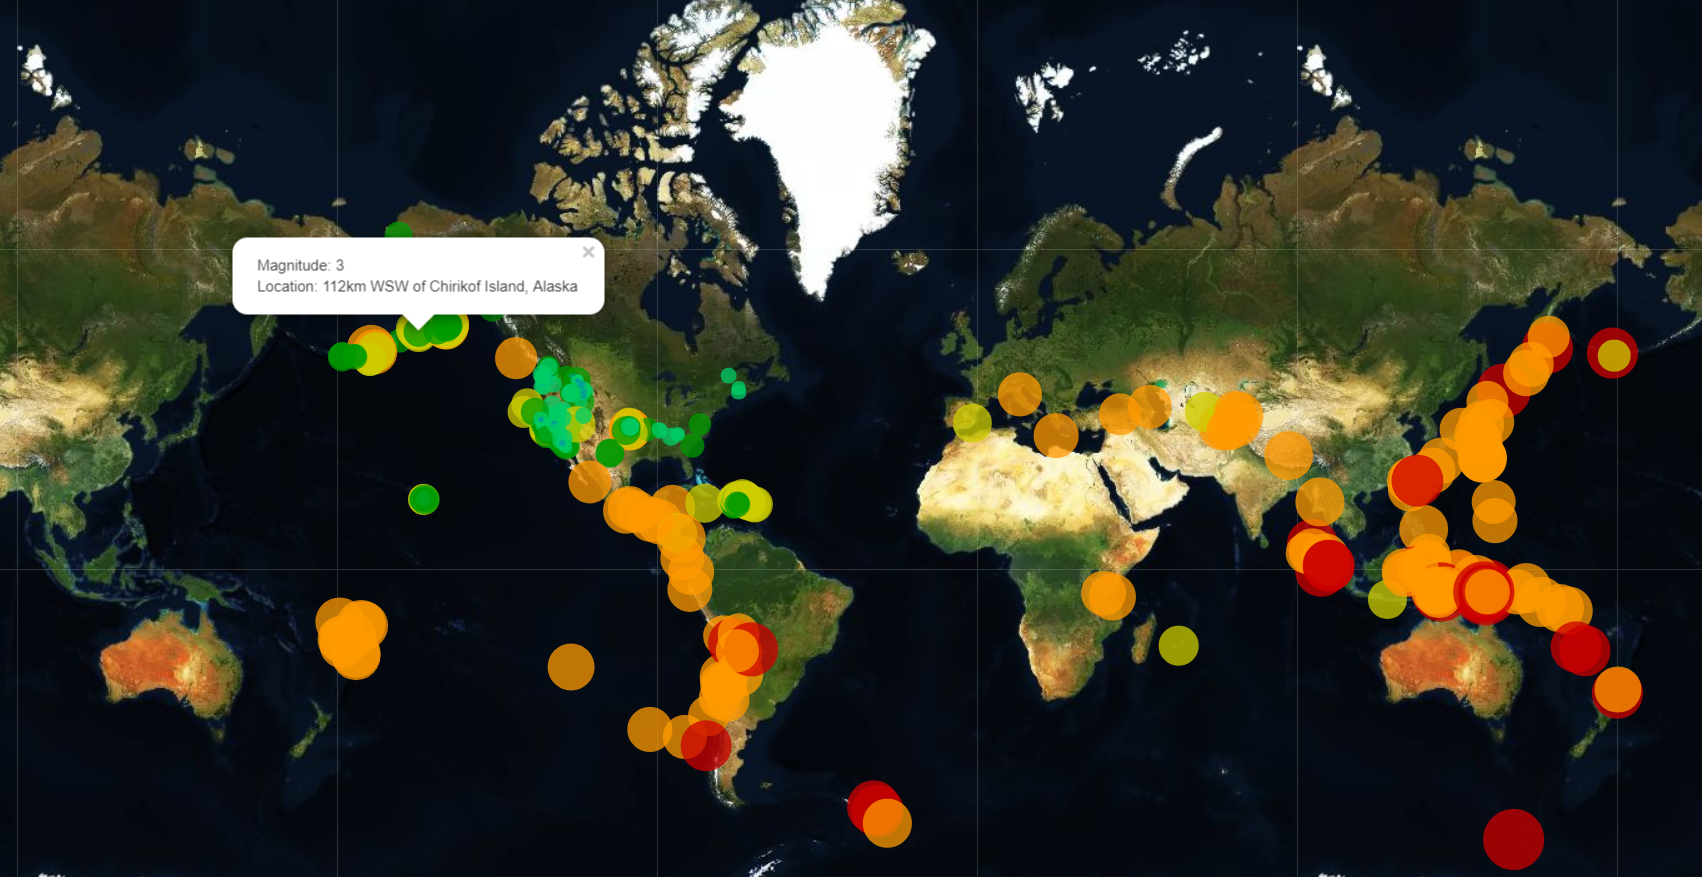
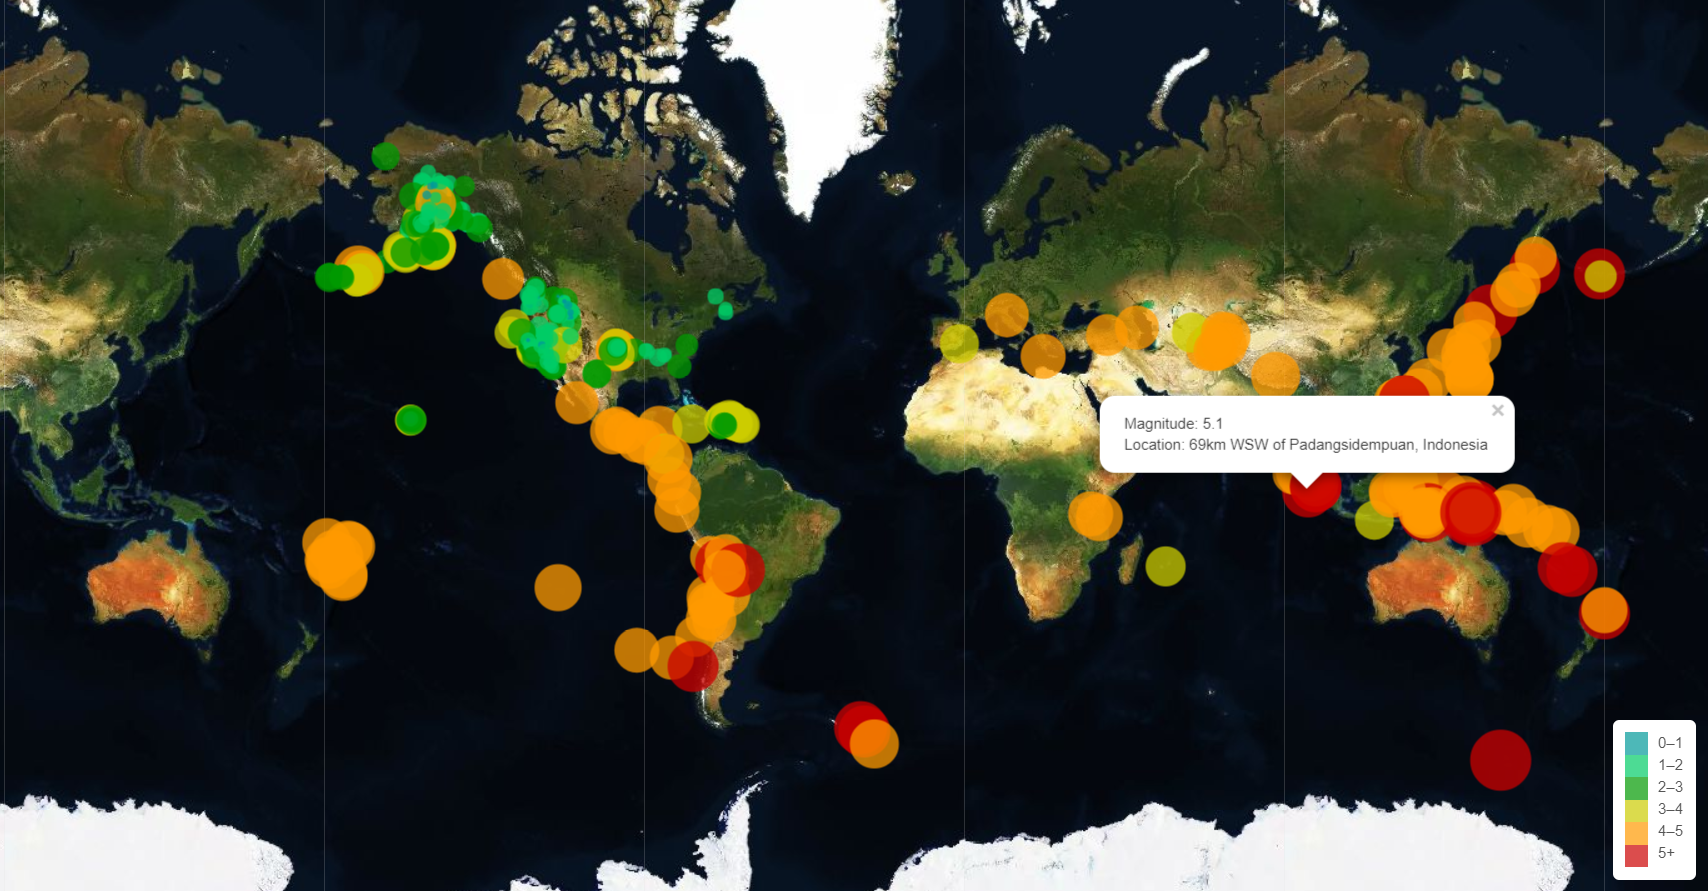
leaflet

diff --git a/logic.js b/logic.js
@@ -86,13 +86,12 @@ d3.json("https://earthquake.usgs.gov/earthquakes/feed/v1.0/summary/all_week.geoj
     }).addTo(myMap);
 
     // Add a legend 
-    var legend = L.control({
-        position: "bottomright"
-    });
+    var legend = L.control({position: "bottomright"});
 
-    // details for legend 
     legend.onAdd = function () {
-        var div = L.DomUtil.create("div", "info legend");
+        var div = L
+            .DomUtil
+            .create("div", "info legend");
 
         var grades = [0, 1, 2, 3, 4, 5];
         var colors = [
@@ -104,15 +103,15 @@ d3.json("https://earthquake.usgs.gov/earthquakes/feed/v1.0/summary/all_week.geoj
             "#cc0000"
         ];
 
-        // Loop the intervals to generate a label with colored square for each interval
+        // Loop through the intervals 
         for (var i = 0; i < grades.length; i++) {
-            div.innerHTML +=
-                "<i style='background: " + colors[i] + "></i> " +
+            div.innerHTML += "<i style='background: " + colors[i] + "'></i> " +
                 grades[i] + (grades[i + 1] ? "&ndash;" + grades[i + 1] + "<br>" : "+");
         }
         return div;
     };
 
-    legend.addTo(myMap)
+    // Add legend to the map
+    legend.addTo(myMap);
 })
 
